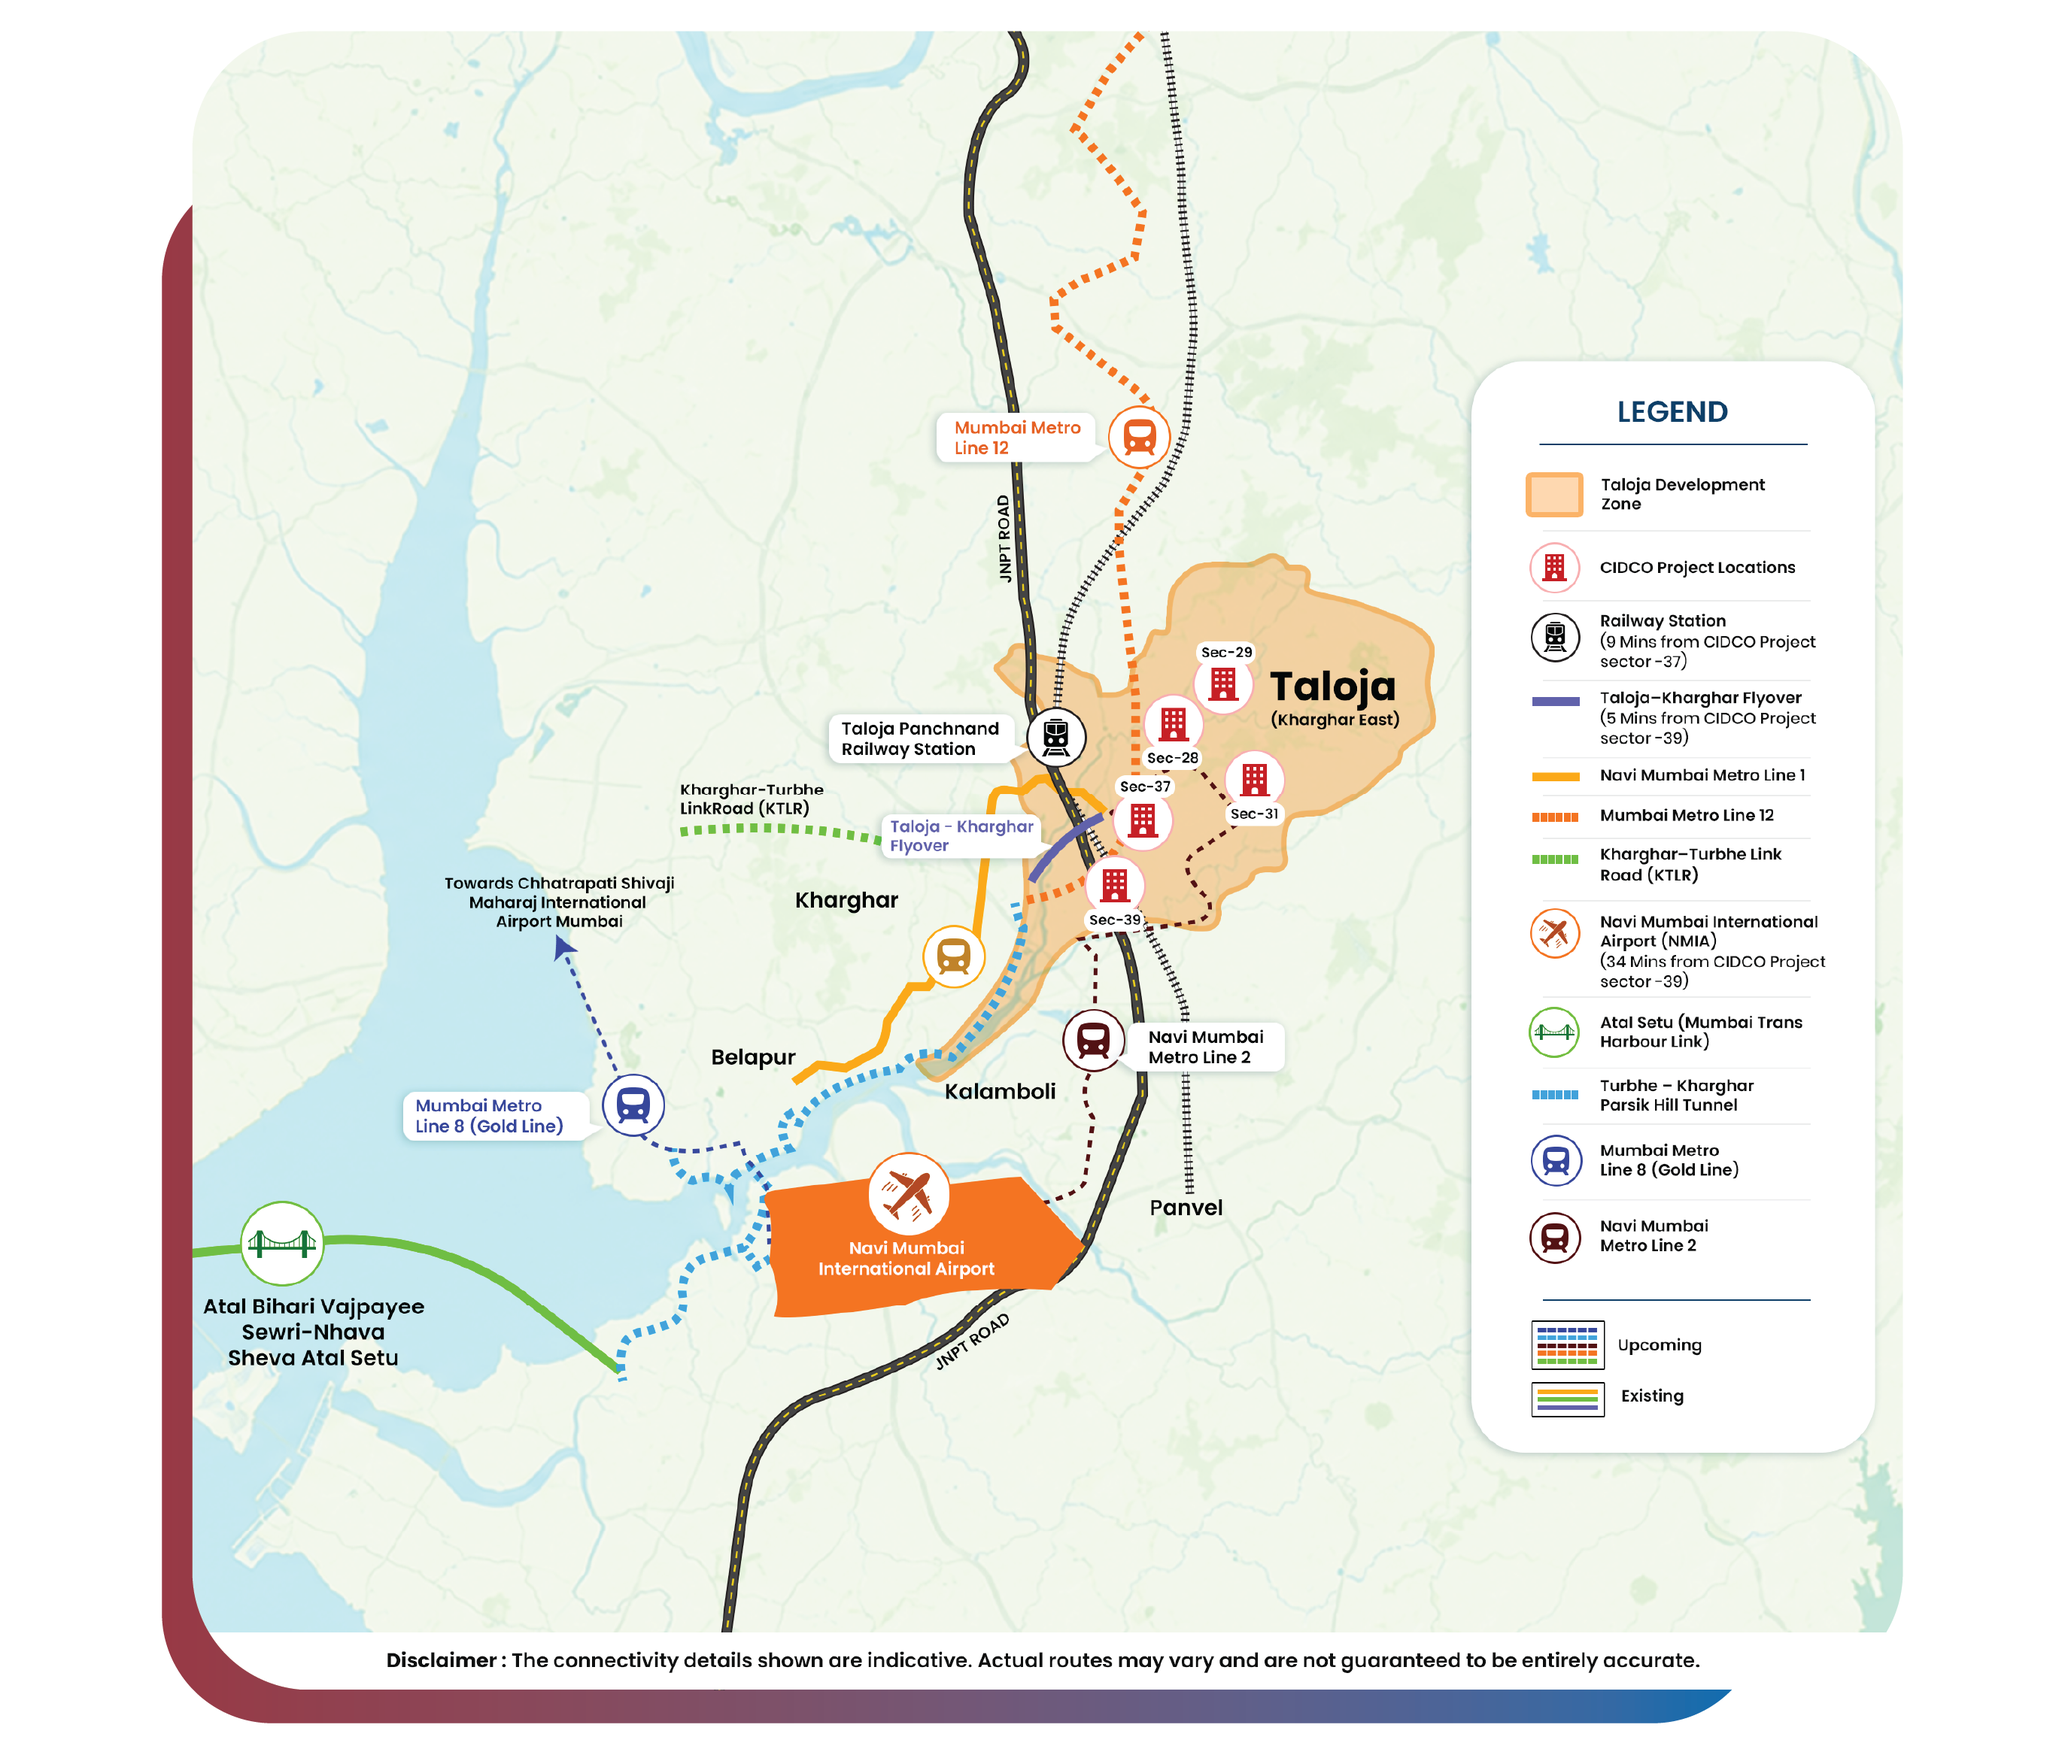
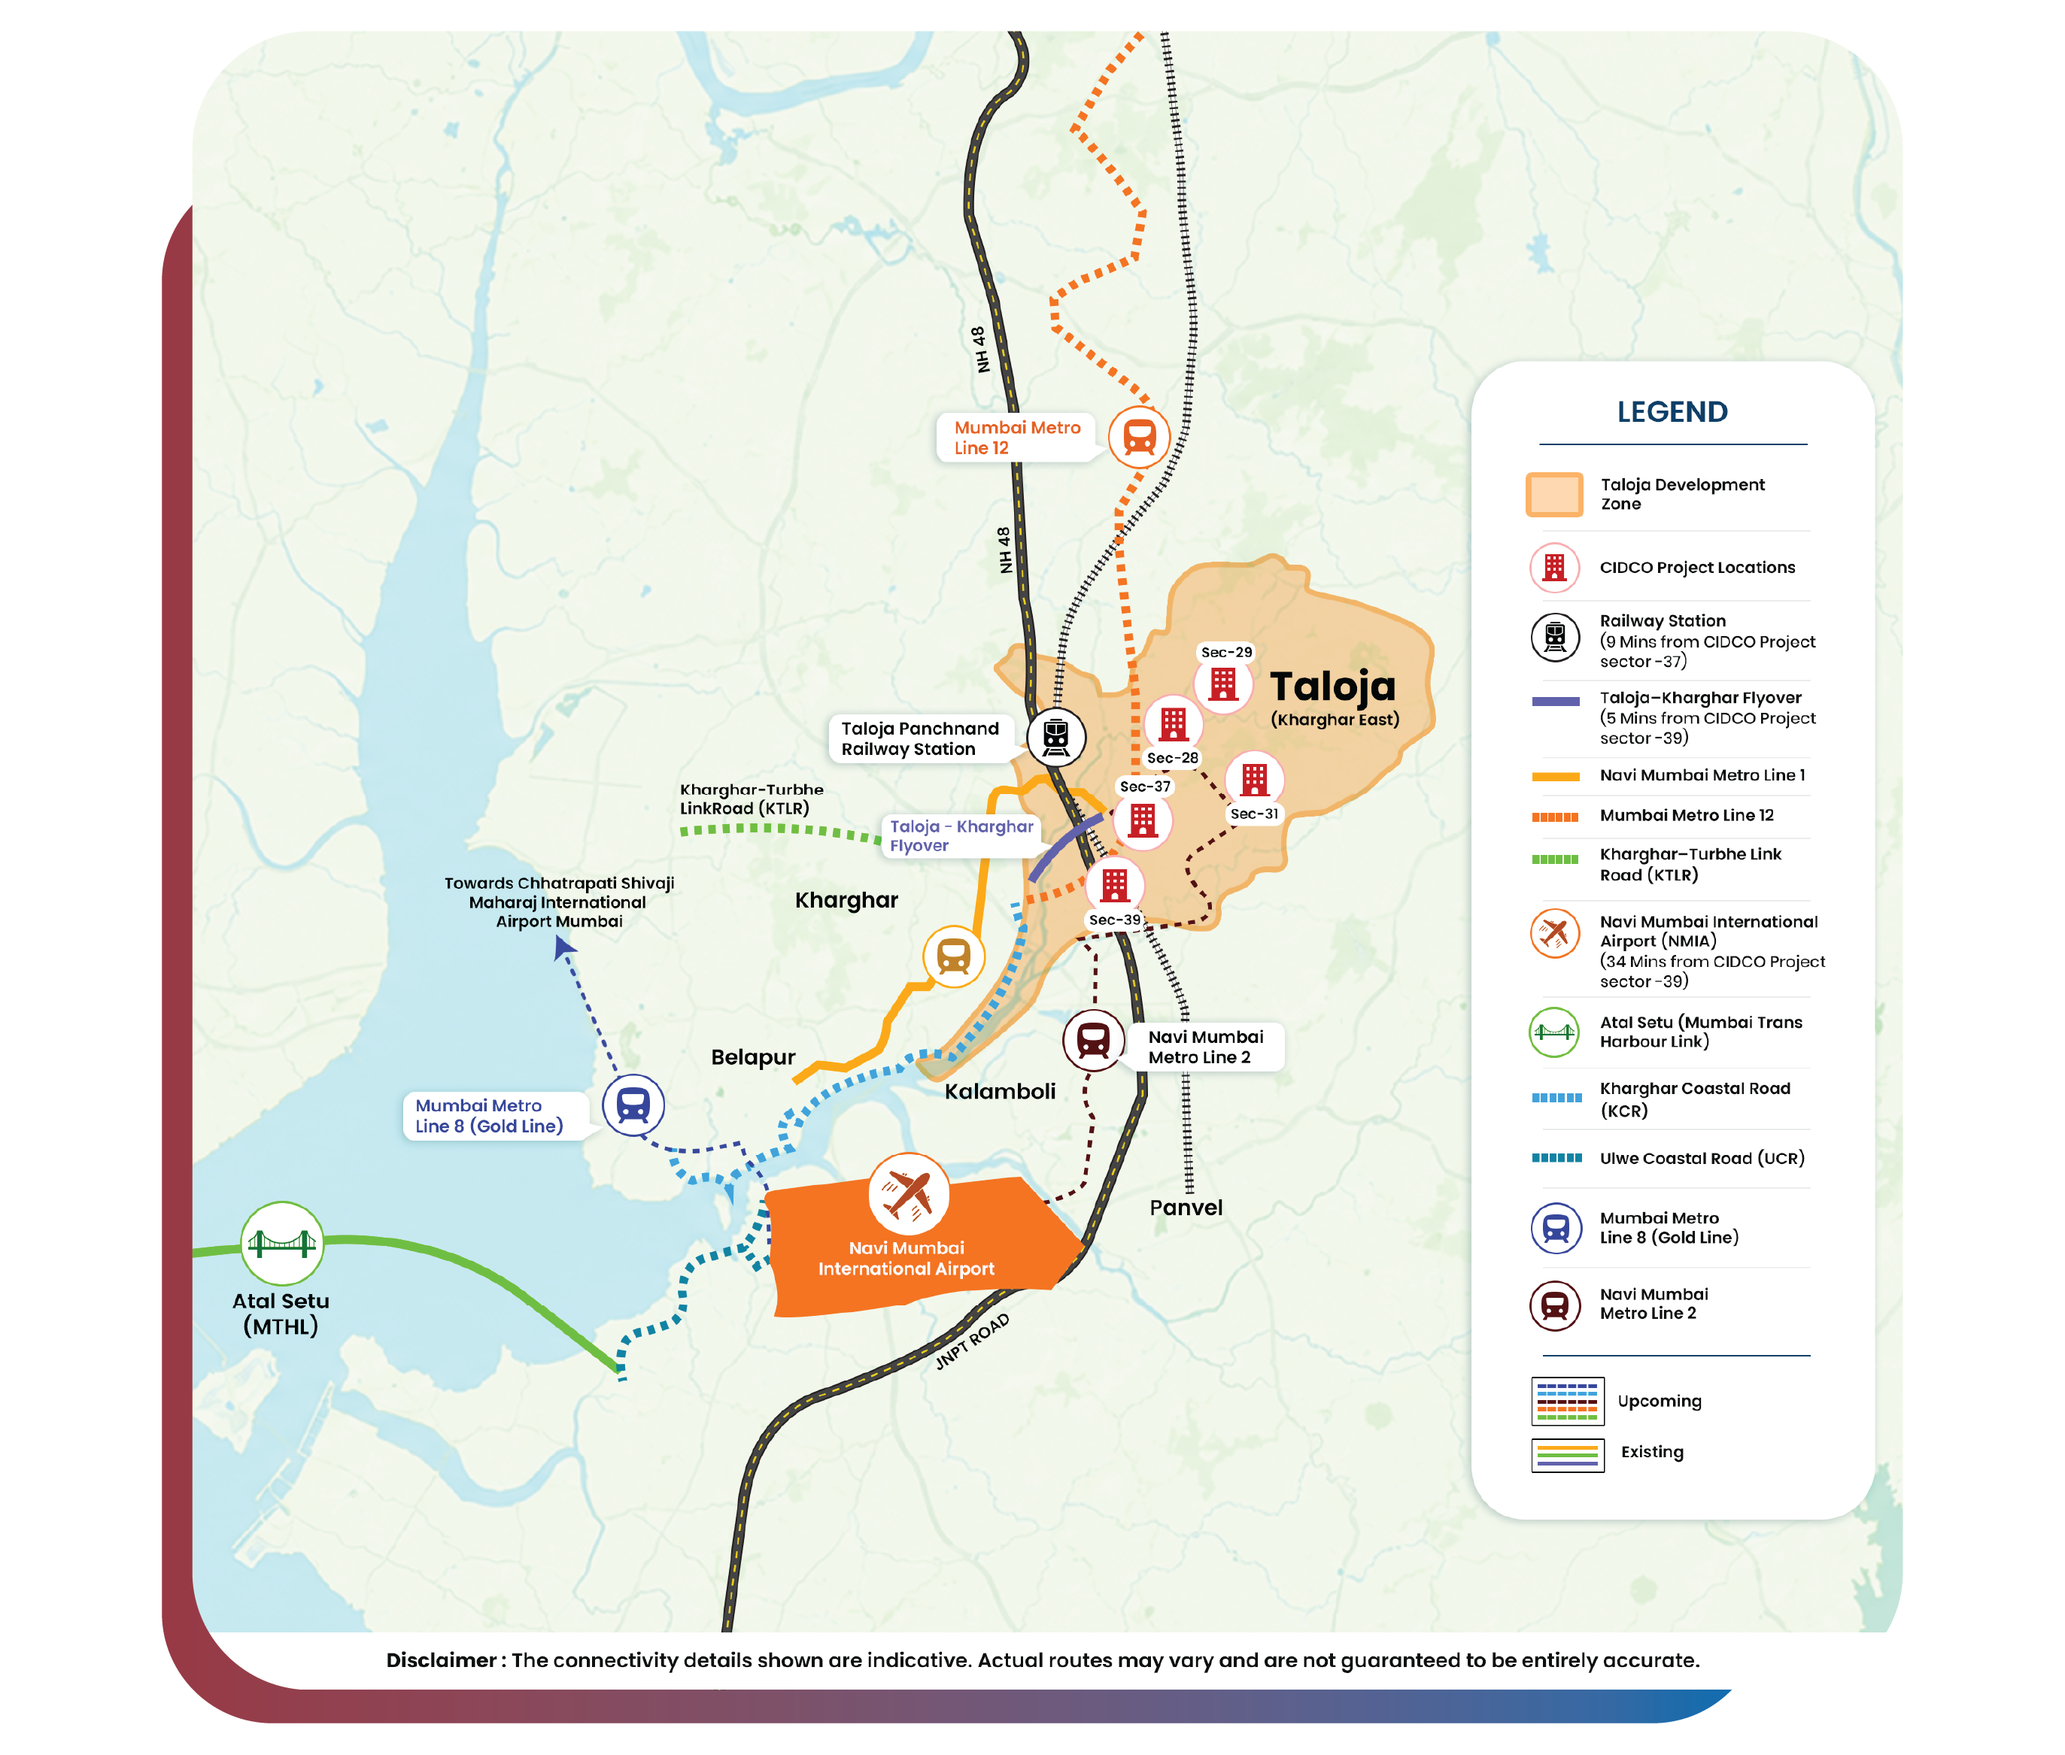
minor changes done

Changed region(s): [[0.7122, 0.617, 0.898, 0.8638], [0.0929, 0.7404, 0.1858, 0.8021], [0.3406, 0.7095, 0.3716, 0.7404]]

diff --git a/index.html b/index.html
@@ -361,7 +361,8 @@
             <div class="proj-card-inner">
               <div class="proj-card-head">
                 <h3 class="proj-name" data-en="Raigad Estate <span class='proj-phase'>Phase- II</span>">रायगड इस्टेट <span class="proj-phase">फेज- II</span></h3>
-                <p class="proj-location" data-en="Sector 29, Taloja">तळोजा सेक्टर २९</p>
+                <!-- <p class="proj-location" data-en="Sector 29, Taloja">तळोजा सेक्टर २९</p> -->
+                  <p class="proj-location" data-en="Sector-29, Taloja, Kharghar (E)">सेक्टर-२९, तळोजा, खारघर (पूर्व)</p>
                 <p class="proj-rera-line" data-en="<span class='rera-status'>Non-PMAY</span> Maha RERA no. P52000028219"><span class="rera-status">NON-PMAY</span> महारेरा नोंदणी क्र. P52000028219</p>
                 <div class="proj-top-row">
                   <span class="proj-type-bar" data-en="Unit type: 1 and 2 BHK">घराचा प्रकार: १ आणि २ बीएचके</span>
@@ -385,7 +386,8 @@
             <div class="proj-card-inner">
               <div class="proj-card-head">
                 <h3 class="proj-name" data-en="Raigad Estate <span class='proj-phase'>Phase- III</span>">रायगड इस्टेट <span class="proj-phase">फेज- III</span></h3>
-                <p class="proj-location" data-en="Sector 31, Taloja">सेक्टर ३१, तळोजा</p>
+                <!-- <p class="proj-location" data-en="Sector 31, Taloja">सेक्टर ३१, तळोजा</p> -->
+                 <p class="proj-location" data-en="Sector-31, Taloja, Kharghar (E)">सेक्टर-३१, तळोजा, खारघर (पूर्व)</p>
                 <p class="proj-rera-line" data-en="<span class='rera-status'>Non-PMAY</span> Maha RERA no. P52000034514"><span class="rera-status">NON-PMAY</span> महारेरा नोंदणी क्र. P52000034514</p>
                 <div class="proj-top-row">
                   <span class="proj-type-bar" data-en="Unit type: 1 and 2 BHK">घराचा प्रकार: १ आणि २ बीएचके</span>
@@ -637,8 +639,10 @@
               <img src="Assets/Icons/Image_20260605_121802_195.jpeg" alt="WhatsApp QR Code" loading="lazy" />
             </div>
           </div>
+         
           <p class="form-phone-note" data-en="For more enquiries call us: (+91) 9930870000">अधिक चौकशीसाठी आम्हाला फोन करा : (+९१) ९९३०८७००००</p>
           <p class="form-success" id="form-success" hidden data-en="Thank you! Our representative will contact you soon.">धन्यवाद! आमचे प्रतिनिधी लवकरच तुमच्याशी संपर्क साधतील.</p>
+       
         </form>
       </div>
     </div>

diff --git a/styles.css b/styles.css
@@ -739,7 +739,7 @@ ul { list-style: none; }
 .why-map {
   height: clamp(420px, 33vw, 560px);
   border-radius: 38px;
-  overflow: visible;
+  overflow: hidden;
   box-shadow: none;
   position: sticky;
   top: calc(var(--hdr-h) + 20px);
@@ -765,6 +765,24 @@ ul { list-style: none; }
   overflow: hidden;
   object-fit: cover;
   filter: saturate(0.9) contrast(1.03);
+  transform: scale(1);
+  transition: transform .35s ease, filter .35s ease;
+}
+.why-map:hover img,
+.why-map:focus-within img {
+  filter: saturate(1) contrast(1.06);
+  transform: scale(1.08);
+}
+
+@media (prefers-reduced-motion: reduce) {
+  .why-map img {
+    transition: none;
+  }
+
+  .why-map:hover img,
+  .why-map:focus-within img {
+    transform: none;
+  }
 }
 
 
@@ -1877,6 +1895,7 @@ html[lang="en"] .footer-nav-label {
 .form-submit:hover { filter: brightness(.96); transform: translateY(-1px); }
 
 .form-phone-note {
+  margin-top: 16px;
   font-size: clamp(0.8rem, 0.95vw, 0.95rem);
   color: #4d557a;
   font-weight: 700;
